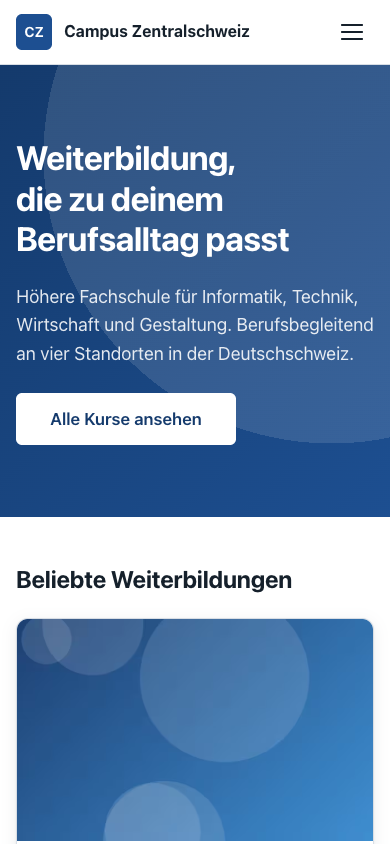
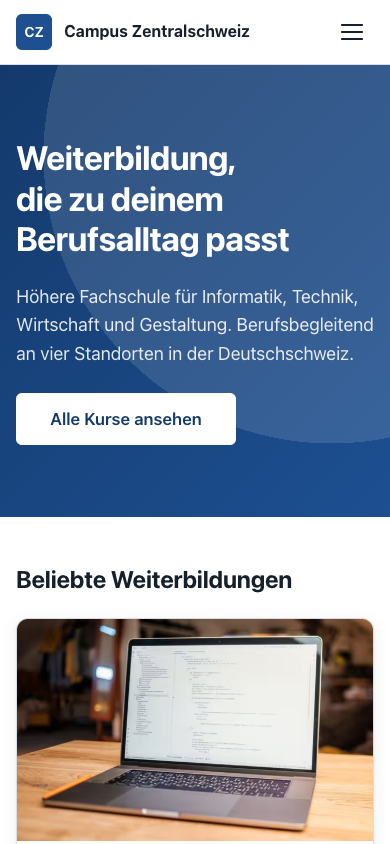
Use photos from Pexels instead of generated images
- Nine photos in fixtures/images, compressed to 1600 px and without metadata (1.5 MB)
- The demo command imports them and stores the photographer as copyright metadata of the asset
- Credits in fixtures/demo.yaml and in the README, new screenshots
- Remove the image generator and its tests

Changed region(s): [[0.0308, 0.7085, 0.9538, 1.0]]

diff --git a/src/Command/DemoInstallCommand.php b/src/Command/DemoInstallCommand.php
@@ -7,7 +7,6 @@ namespace App\Command;
 use App\Controller\CourseController;
 use App\Controller\DefaultController;
 use App\Controller\RegistrationController;
-use App\Demo\DemoImageGenerator;
 use App\Registration\RegistrationRecorder;
 use Carbon\Carbon;
 use OpenDxp\Model\Asset;
@@ -41,10 +40,14 @@ final class DemoInstallCommand extends Command
         'registration' => ['controller' => RegistrationController::class . '::formAction', 'setting' => 'registrationPage'],
     ];
 
+    /** @var array<string, array{photographer: string, source: string}> */
+    private array $imageCredits = [];
+
     public function __construct(
-        private readonly DemoImageGenerator $images,
         #[Autowire('%kernel.project_dir%/fixtures/demo.yaml')]
         private readonly string $fixtureFile,
+        #[Autowire('%kernel.project_dir%/fixtures/images')]
+        private readonly string $imageDirectory,
     ) {
         parent::__construct();
     }
@@ -53,8 +56,9 @@ final class DemoInstallCommand extends Command
     {
         $io = new SymfonyStyle($input, $output);
 
-        /** @var array{pages: array<string, array<string, array<string, mixed>>>, locations: array<string, array<string, string>>, courses: array<string, array<string, mixed>>} $fixtures */
+        /** @var array{images: array<string, array{photographer: string, source: string}>, pages: array<string, array<string, array<string, mixed>>>, locations: array<string, array<string, string>>, courses: array<string, array<string, mixed>>} $fixtures */
         $fixtures = Yaml::parseFile($this->fixtureFile);
+        $this->imageCredits = $fixtures['images'];
 
         $this->installPages($fixtures['pages']);
         $io->writeln(sprintf('%d languages with pages', count($fixtures['pages'])));
@@ -149,7 +153,7 @@ final class DemoInstallCommand extends Command
         foreach ($editables as $name => $editable) {
             $data = $editable['data'];
             if ($editable['type'] === 'image') {
-                $data = ['id' => $this->installImage('/Seiten', $data['asset'], 'business')->getId()];
+                $data = ['id' => $this->installImage('/Seiten', $data['asset'])->getId()];
             }
 
             $page->setRawEditable($name, $editable['type'], $data);
@@ -249,7 +253,7 @@ final class DemoInstallCommand extends Command
             $course->setStartDate(Carbon::parse($data['start']));
             $course->setFeatured($data['featured']);
             $course->setLocations(array_map(fn (string $key) => $locations[$key], $data['locations']));
-            $course->setImage($this->installImage('/Kurse', $slug, $data['category']));
+            $course->setImage($this->installImage('/Kurse', $slug));
 
             foreach (self::LANGUAGES as $language) {
                 $course->setTitle($data[$language]['title'], $language);
@@ -266,19 +270,31 @@ final class DemoInstallCommand extends Command
         return $courses;
     }
 
-    private function installImage(string $folderPath, string $name, string $category): Asset\Image
+    /**
+     * Imports a photo from fixtures/images and stores its credit as the copyright metadata of the asset,
+     * where editors see it in the admin. An existing asset only gets the file again when the photo changed.
+     */
+    private function installImage(string $folderPath, string $name): Asset\Image
     {
-        $filename = "{$name}.jpg";
-        $existing = Asset\Image::getByPath("{$folderPath}/{$filename}");
-        if ($existing instanceof Asset\Image) {
-            return $existing;
+        $file = "{$this->imageDirectory}/{$name}.jpg";
+        $data = file_get_contents($file);
+        if ($data === false) {
+            throw new RuntimeException("The photo {$file} is missing.");
         }
 
-        $folder = Asset\Service::createFolderByPath($folderPath);
-        $image = new Asset\Image();
-        $image->setParent($folder);
-        $image->setFilename($filename);
-        $image->setData($this->images->generate($category, $name));
+        $image = Asset\Image::getByPath("{$folderPath}/{$name}.jpg");
+        if (!$image instanceof Asset\Image) {
+            $image = new Asset\Image();
+            $image->setParent(Asset\Service::createFolderByPath($folderPath));
+            $image->setFilename("{$name}.jpg");
+        }
+
+        if ($image->getId() === null || $image->getData() !== $data) {
+            $image->setData($data);
+        }
+
+        $credit = $this->imageCredits[$name] ?? throw new RuntimeException("The photo {$name} has no credit in the fixtures.");
+        $image->addMetadata('copyright', 'input', "{$credit['photographer']} / Pexels");
         $image->save();
 
         return $image;

diff --git a/README.md b/README.md
@@ -68,7 +68,8 @@ Die Klassen liegen als Definition in [`var/classes/`](var/classes) und werden be
 | `Registration` | Kurs, Standort, Vorname, Nachname, E-Mail, Telefon, Nachricht, Sprache                       |
 
 Die Demo-Inhalte stehen in [`fixtures/demo.yaml`](fixtures/demo.yaml). `make demo` legt sie an oder aktualisiert sie.
-Die Kursbilder sind generierte Farbverläufe, damit das Repo keine Fotos mit unklarer Lizenz enthält.
+Die Fotos liegen in [`fixtures/images/`](fixtures/images). Der Demo-Befehl importiert sie als Assets und trägt den
+Fotografen als Copyright-Metadatum ein, siehe [Bildnachweis](#bildnachweis).
 
 ## Seiten
 
@@ -191,7 +192,24 @@ Was dabei in Reviews, im Browser und in den Tests aufgefallen ist und korrigiert
 - Einen Bereich „Mein Campus“ mit Login und Rollen für Teilnehmende und Dozierende
 - Übersetzte Ortsnamen (Lucerne, Zoug, Zurich, Berne)
 
+## Bildnachweis
+
+Alle Fotos stammen von [Pexels](https://www.pexels.com) und stehen unter der [Pexels-Lizenz](https://www.pexels.com/license/).
+
+| Foto                  | Fotograf                                                                                                              |
+| --------------------- | --------------------------------------------------------------------------------------------------------------------- |
+| Web-Entwicklung       | [Daniil Komov](https://www.pexels.com/photo/modern-laptop-displaying-code-in-cozy-workspace-34803986/)                |
+| Informatik            | [Mikhail Nilov](https://www.pexels.com/photo/men-working-on-a-computer-7988742/)                                      |
+| Cyber Security        | [Brett Sayles](https://www.pexels.com/photo/close-up-photo-of-cables-plugged-into-the-server-2881233/)                |
+| Elektrotechnik        | [mickael ange konan](https://www.pexels.com/photo/female-technician-working-on-electrical-control-panel-34526423/)    |
+| Maschinenbau          | [Daniel Smyth](https://www.pexels.com/photo/close-up-shot-of-a-cnc-machine-8865187/)                                  |
+| Betriebswirtschaft    | [Yan Krukau](https://www.pexels.com/photo/businesspeople-brainstorming-in-a-meeting-7693692/)                         |
+| Projektmanagement     | [cottonbro studio](https://www.pexels.com/photo/project-manager-planning-tasks-6804091/)                              |
+| UX/UI Design          | [picjumbo.com](https://www.pexels.com/photo/notebook-beside-the-iphone-on-table-196644/)                              |
+| Lernen, wo du arbeitest | [Kampus Production](https://www.pexels.com/photo/multiracial-students-sitting-together-and-listening-to-classmate-5940846/) |
+
 ## Lizenz
 
-GPL-3.0, wie das [OpenDXP-Skeleton](https://github.com/open-dxp/skeleton), auf dem das Projekt aufbaut.
+Der Code steht unter GPL-3.0, wie das [OpenDXP-Skeleton](https://github.com/open-dxp/skeleton), auf dem das Projekt
+aufbaut. Für die Fotos gilt die Pexels-Lizenz.
 Siehe [LICENSE.md](LICENSE.md).
